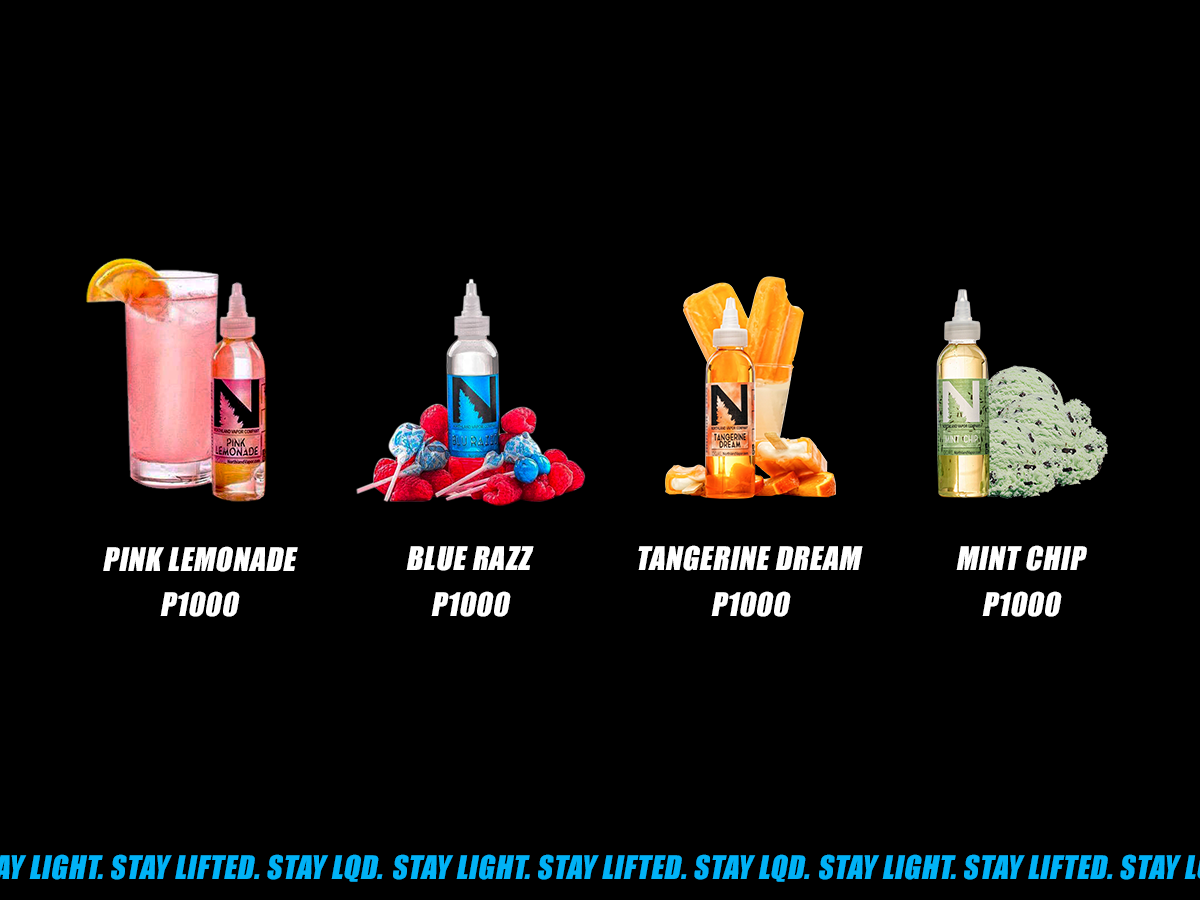
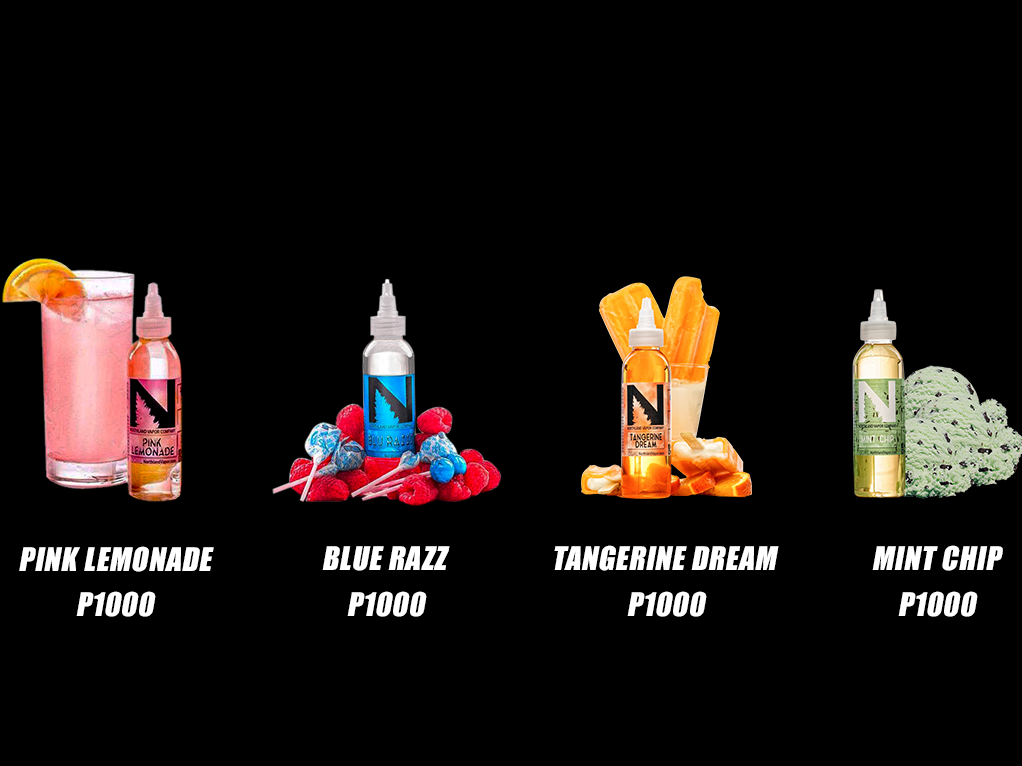
1.0.8
Implemented:
-Revised Catalog design

to be implemented:
-Catalog and Checkout Functionality

diff --git a/LQDCatalog/index.html b/LQDCatalog/index.html
@@ -11,21 +11,29 @@
     <script src="./js/model.js"></script>
     <link rel="icon" type="image/png" href="./images/PNG (transp) files/lqd-blue2-transp.png"/>
     <link href="./css/lqdstyle.css" rel="stylesheet" type="text/css" />
+    <link rel="stylesheet" href="https://maxcdn.bootstrapcdn.com/font-awesome/4.4.0/css/font-awesome.min.css">
     
 </head>
-<body>
 
+
+<body>
 <div id = "lqdHeader">
+    <div id="navbar" style="overflow:auto;" class="navbar">
+        <a href="javascript:void(0)" onclick="openNav()"> <i class="fa fa-shopping-cart"></i> My Cart</a>
+    </div>
+
     <div id="static-smoke" class = "header-images static-smoke"></div>
     <div id="lqd-Logo" class="lqd-Header-Logo"></div>
-    <div id="smoke-background" class="header-images"></div>
-        
+    <div id="smoke-background" class="header-images"></div>     
 </div>
 
-<div id="navbar" style="overflow:auto;" class="navbar">
-    <a href="javascript:void(0)" onclick="openNav()">My Cart</a>
-    <a href="javascript:void(0)" class="about" id = "aboutNav" >About</a>
-    <a href="javascript:void(0)" class="products" id = "productsNav">Products</a>
+<div style="background-color: transparent;">
+        <h2 style="position: absolute; left: 300px; top: 620px; color:#01b2f6;" onclick="moveToAbout()">about</h2>
+        <h2 style="position: absolute; right: 300px; top: 620px; color:#01b2f6;" onclick="moveToProducts()">Products</h2>
+</div>
+
+<div id="marquee">
+        <marquee behavior="scroll" direction="left" style="font-size: 30px; color:#01b2f6;">STAY LIGHT. STAY LIFTED. STAY LQD. STAY LIGHT. STAY LIFTED. STAY LQD. STAY LIGHT. STAY LIFTED. STAY LQD. STAY LIGHT. STAY LIFTED. STAY LQD. STAY LIGHT. STAY LIFTED. STAY LQD. STAY LIGHT. STAY LIFTED. STAY LQD. STAY LIGHT. STAY LIFTED. STAY LQD. STAY LIGHT. STAY LIFTED. STAY LQD. STAY LIGHT. STAY LIFTED. STAY LQD.</marquee>
 </div>
 
 <div id="mySidenav" class="sidenav">
@@ -38,29 +46,78 @@
         <img src="./images/BLACK BG/About.png">
     </div>
 
-    <div class="content" id="products">
-        <img src="./images/BLACK BG/Products.png">
-    </div>
-
-    <div class= "content" id="BlueRazz">
-        <img src="./images/BLACK BG/blue-razz-blk.jpg" align="left">
+    <div class="content" id="slideshowcontainer">
         
-        <h2>Blue Razz</h2>
-        <div class="dropdown">
-                <button class="dropbtn">Nicotine Strength</button>
-                <div class="dropdown-content">
-                  <a href="#">3 mg</a>
-                  <a href="#">6 mg</a>
+        <div class="mySlides" id="products">
+                <img src="./images/BLACK BG/Products.png" style"width:100%">
+                <div id="marquee">
+                        <marquee behavior="scroll" direction="left" style="font-size: 30px; color:#01b2f6;">STAY LIGHT. STAY LIFTED. STAY LQD. STAY LIGHT. STAY LIFTED. STAY LQD. STAY LIGHT. STAY LIFTED. STAY LQD. STAY LIGHT. STAY LIFTED. STAY LQD. STAY LIGHT. STAY LIFTED. STAY LQD. STAY LIGHT. STAY LIFTED. STAY LQD. STAY LIGHT. STAY LIFTED. STAY LQD. STAY LIGHT. STAY LIFTED. STAY LQD. STAY LIGHT. STAY LIFTED. STAY LQD.</marquee>
                 </div>
         </div>
-        <button class="button">Add to Cart</button>
 
-        <p style="color:white">
-            Blue razz is a flavor<br/>
-            (Flavor Description Goes here)
-        </p>
-        
+        <div class="mySlides" id="products">
+            <div class="text"><h2>Mint Chip</h2></div>
+            <img class="productphoto" src="./images/PNG (transp) files/mint-chip-transp-rev.png">
+            <div class="dropdown">
+            <button class="dropbtn">Nicotine Strength</button>
+            <div class="dropdown-content">
+              <a href="#">3 mg</a>
+              <a href="#">6 mg</a>
+            </div>
+            </div>
+            <button class="button">Add to Cart</button>
+
+            <div class="numbertext">1 / 4</div>
+        </div>
+      
+        <div class="mySlides">
+        <div class="text"><h2>Tangerine Dream</h2></div>
+        <img class="productphoto" src="./images/PNG (transp) files/tangerine-dream-transp-rev.png">
+        <div class="dropdown">
+            <button class="dropbtn">Nicotine Strength</button>
+            <div class="dropdown-content">
+              <a href="#">3 mg</a>
+              <a href="#">6 mg</a>
+            </div>
+            </div>
+            <button class="button">Add to Cart</button>
+        <div class="numbertext">2 / 4</div>
+        </div>
+      
+        <div class="mySlides">
+         <div class="text"><h2>Pink Lemon</h2></div>
+        <img class="productphoto" src="./images/PNG (transp) files/pink-lemon-transp-rev.png">
+        <div class="dropdown">
+            <button class="dropbtn">Nicotine Strength</button>
+            <div class="dropdown-content">
+              <a href="#">3 mg</a>
+              <a href="#">6 mg</a>
+            </div>
+            </div>
+            <button class="button">Add to Cart</button>
+            <div class="numbertext">3 / 4</div>
+        </div>
+
+        <div class="mySlides">
+        <div class="text"><h2>Bluerazz</h2></div>
+        <img class="productphoto" src="./images/PNG (transp) files/lqd-bluerazz-transp-rev.png">
+        <div class="dropdown">
+            <button class="dropbtn">Nicotine Strength</button>
+            <div class="dropdown-content">
+              <a href="#">3 mg</a>
+              <a href="#">6 mg</a>
+            </div>
+            </div>
+            <button class="button">Add to Cart</button>
+            <div class="numbertext">4 / 4</div>       
+        </div>
+      
+        <br/>
+      <a class="prev" onclick="plusSlides(-1)" style="position: absolute; left: 100px;">&#10094;</a>
+      <a class="next" onclick="plusSlides(1)" style="position: absolute; right: 100px;">&#10095;</a>
     </div>
+      
+</div>
 
 </div>
 <script>

diff --git a/LQDCatalog/css/lqdstyle.css b/LQDCatalog/css/lqdstyle.css
@@ -43,6 +43,7 @@ body{
     background-color: rgb(0, 0, 0);
     color:white;
     font-family:impact;
+    font-style: italic;
 }
 
 /* Navbar links */
@@ -57,7 +58,7 @@ body{
 
 /* Designs the navbar*/
 .navbar {
-    background-color: rgba(51,51,51, 1);
+    background-color: transparent;
     overflow: hidden;
     position: relative;
  }
@@ -135,6 +136,8 @@ and makes the navbar slightly transparent.
     padding: 16px;
     font-size: 16px;
     border: none;
+    font-family: Impact;
+    font-style: italic; 
 }
 
 .dropdown {
@@ -154,7 +157,6 @@ and makes the navbar slightly transparent.
 .dropdown-content a {
     color: black;
     padding: 12px 16px;
-    text-decoration: none;
     display: block;
 }
 
@@ -175,14 +177,96 @@ and makes the navbar slightly transparent.
     color: white;
     padding: 15px 32px;
     text-align: center;
-    text-decoration: none;
     display: inline-block;
     font-size: 16px;
     margin: 4px 2px;
     cursor: pointer;
+    font-family: Impact;
+    font-style: italic;
 }
 
 .about{
     width: auto;
     /* padding-bottom: 45%; */
 }
+
+/*slideshow */
+* {box-sizing: border-box}
+.mySlides {display: none}
+img {vertical-align: middle;}
+
+/* Slideshow container */
+.slideshow-container {
+    max-width: 1000px;
+    position: relative;
+    margin: auto;
+  }
+  
+  /* Next & previous buttons */
+  .prev, .next {
+    cursor: pointer;
+    width: auto;
+    padding: 16px;
+    margin-top: -22px;
+    color: white;
+    font-weight: bold;
+    font-size: 18px;
+    transition: 0.6s ease;
+    border-radius: 0 3px 3px 0;
+  }
+  
+  /* Position the "next button" to the right */
+  .next {
+    right: 0;
+    border-radius: 3px 0 0 3px;
+  }
+  
+  /* On hover, add a black background color with a little bit see-through */
+  .prev:hover, .next:hover {
+    background-color: rgba(0,0,0,0.8);
+  }
+  
+  /* Caption text */
+  .text {
+    color: #f2f2f2;
+    font-size: 15px;
+    padding: 8px 12px;
+    bottom: 8px;
+    width: 100%;
+    text-align: center;
+  }
+  
+  /* Number text (1/3 etc) */
+  .numbertext {
+    color: #f2f2f2;
+    font-size: 12px;
+    padding: 8px 12px;
+  }
+  
+  /* Fading animation */
+  .fade {
+    -webkit-animation-name: fade;
+    -webkit-animation-duration: 1.5s;
+    animation-name: fade;
+    animation-duration: 1.5s;
+  }
+  
+  @-webkit-keyframes fade {
+    from {opacity: .4} 
+    to {opacity: 1}
+  }
+  
+  @keyframes fade {
+    from {opacity: .4} 
+    to {opacity: 1}
+  }
+  
+  /* On smaller screens, decrease text size */
+  @media only screen and (max-width: 300px) {
+    .prev, .next,.text {font-size: 11px}
+  }
+
+  .productphoto
+  {
+      width:40%;
+  }

diff --git a/LQDCatalog/js/view.js b/LQDCatalog/js/view.js
@@ -1,5 +1,6 @@
 var offset;
 var navbar;
+var slideIndex = 1;
 
 /**
  * When the user scrolls the page past the navbars offset, the navbar will
@@ -23,6 +24,7 @@ $(window).resize(function(){
 function initializeView(){
     navbar = $("#navbar");
     offset = navbar.offset(); //Sets the current position of the navbar. 
+    showSlides(slideIndex);
 }
 
 function moveToAbout(){
@@ -49,6 +51,28 @@ function closeNav() {
     $("#content").css("margin-left") = "0";
 }
 
+function plusSlides(n) {
+  showSlides(slideIndex += n);
+}
+
+function currentSlide(n) {
+  showSlides(slideIndex = n);
+}
+
+function showSlides(n) {
+    var i;
+    var slides = document.getElementsByClassName("mySlides");
+    if (n > slides.length) {slideIndex = 1}
+    if (n < 1) {slideIndex = slides.length}
+    console.log(slides.length);
+    for (i = 0; i < slides.length; i++) {
+        slides[i].style.display = "none";  
+    }
+    slides[slideIndex-1].style.display = "block";  
+  }
+
+
+  
 /**
  * PRODUCTS FUNCTIONALITY
  */
@@ -59,3 +83,4 @@ Takes a product list and prints it on the products section of the page.
  function viewProducts(productList){
 
  }
+
